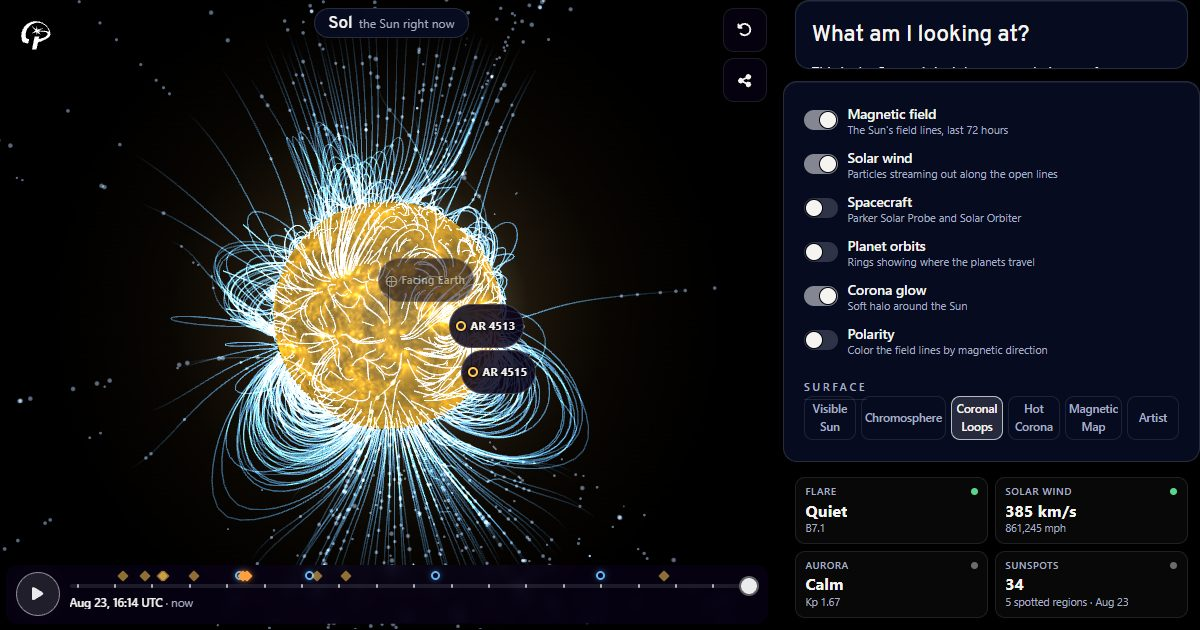
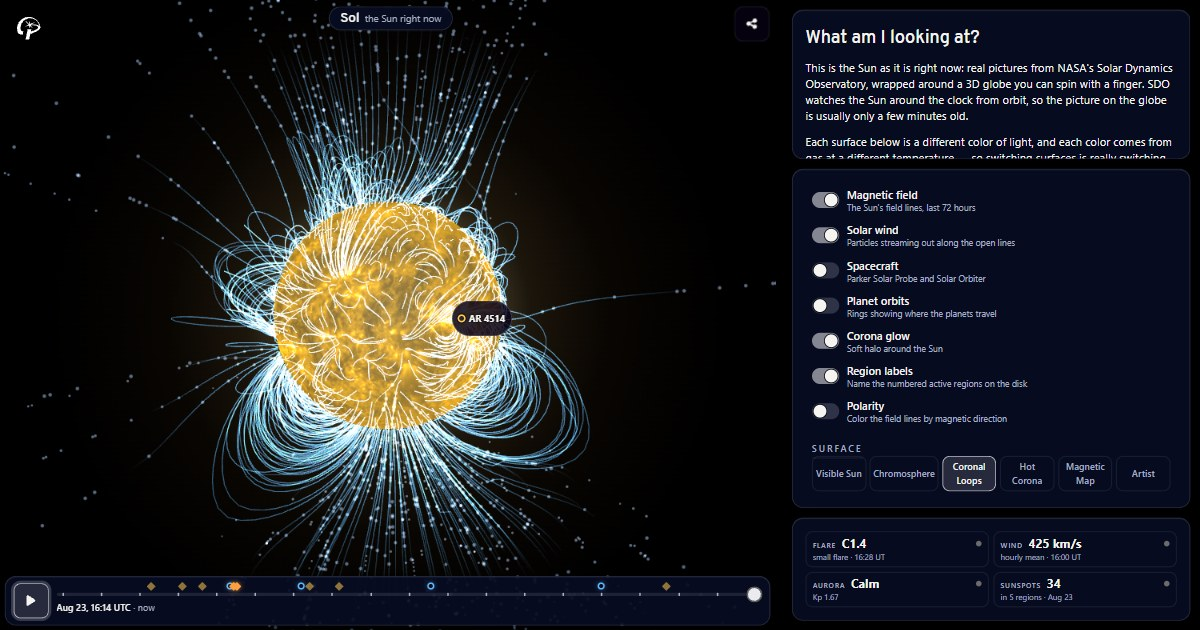
Layer panel, stat chips, rail widths and a share button that never worked
Five things reported from a phone, all measured in a browser before and after.

The layer popover hung off the bottom of the whole button stack and stopped
1rem from the bottom of the stage -- straight through the scrubber, which sits
at z-index 5 and therefore painted over its last rows and stole their taps. It
now hangs off the bottom edge of its OWN button (--sv-layers-index), covering
the information button, states BOTH side insets so the gutters are equal by
construction rather than left over from shrink-to-fit, and caps its height
against --sv-bottom-h, the measured height of the scrubber block. A drag on a
row scrolled it; a drag on the padding BETWEEN two rows orbited the Sun, so it
now carries gestures.ts' own data-camera-passthrough escape hatch.

The stat chips were 3 and 1 at any width where three 150px columns happened to
fit -- auto-fit cannot express "2 or 4, never 3", because it does not know the
count is four. Stated instead: 2 columns, 4 from 640px. The label moved onto the
value's baseline, which makes each chip two lines and 44px instead of ~58 and
gives ~27px back to the Sun; the text shortened to survive two columns at 280px.

The flare chip leads with the CLASS now (C1.4, M2.3, X5.0). "Small flare" could
not answer the only question a flare raises -- C1.0 and C9.9 are a factor of ten
apart and read identically -- and the SCRUBBED path dropped the class entirely.

The rail's three panels were three different widths (measured, 1920px window:
[…]

Changed region(s): [[0.0, 0.0, 1.0, 1.0], [0.0, 0.0302, 0.0617, 0.0905]]

diff --git a/src/sol.vue b/src/sol.vue
@@ -529,11 +529,25 @@ export default defineComponent({
   // be applied left/right here with a padding-bottom only on the stats item, so
   // the top panel sat flush against the top edge while the bottom one was inset
   // -- and the column read as slightly lopsided for no reason anyone could name.
+  //
+  // MARGIN, not padding, and that is the whole fix for "the layers panel sticks
+  // out farther left and right than the info panel and the stats": two of these
+  // three grid items ARE the bordered panel, because the rail's classes land on
+  // the component ROOTS -- `.sol-area-layers` is `.layer-panel` itself and
+  // `.sol-area-stats` is `.sun-stats` itself, while `.sol-area-info` is
+  // `.im-inline`, a WRAPPER around `.im-panel`. So a padding gutter landed
+  // inside two of the three borders: those panels' boxes spanned the entire
+  // column while the info panel's was inset by it. Measured 2026-08-24 in a
+  // 1920px window: layers 1251..1920 (hard against the window edge) against
+  // info's panel at 1263..1908. Margin sits OUTSIDE the border, so it insets
+  // the panel whether the item is the panel or a wrapper around one -- and as a
+  // bonus `.layer-panel` gets its own symmetric `--sol-panel-pad` back, which
+  // the padding gutter had been overriding to a lopsided `16px 12px`.
   .sol-area-info,
   .sol-area-layers,
   .sol-area-stats {
-    padding-right: var(--sol-rail-gutter);
-    padding-left: var(--sol-rail-gutter);
+    margin-right: var(--sol-rail-gutter);
+    margin-left: var(--sol-rail-gutter);
   }
 
   // Every rail child is a PANEL of the same width. `.layer-panel` carries
@@ -548,6 +562,12 @@ export default defineComponent({
 
   .sol-area-info {
     grid-area: info;
+    // PADDING here, unlike the side gutters above, and deliberately: this item
+    // is `.im-inline`, which carries `height: 100%` (InfoModal.vue) so that the
+    // panel can fill the 1fr row and scroll inside it. A grid item at 100%
+    // height plus a top MARGIN overflows its area by exactly the margin, and
+    // would push into the layers row below. Padding is inside that 100% and,
+    // on a wrapper with no border or ground of its own, is visually identical.
     padding-top: var(--sol-rail-gutter);
     // Load-bearing: without it the info panel's content sets a floor on this
     // grid item's height and the 1fr row stops constraining anything.
@@ -559,27 +579,44 @@ export default defineComponent({
     align-self: start;
   }
 
+  // SunStats is a bare strip of chips on a phone, where it sits at the bottom
+  // of the screen and needs no frame. In the rail it is the third member of a
+  // column of cards, and being the only one without a border, a ground and a
+  // radius was the single biggest thing making the right-hand side look
+  // unfinished. Same tokens as `.layer-panel` and `.im-panel`, so all three are
+  // one design and cannot drift apart.
+  //
+  // These five declarations sat in a nested `:deep(.sun-stats)` block and did
+  // NOTHING for it -- `:deep()` compiles to a DESCENDANT selector, and
+  // `.sun-stats` is not a descendant of `.sol-area-stats`, it IS that element
+  // (the rail class is bound onto the child component's root). So the rule
+  // matched no element in the document and the framing never shipped; measured
+  // 2026-08-24 the panel's computed border was `0px none` and its background
+  // `rgba(0, 0, 0, 0)`. They belong directly on the item: Vue's scoped CSS
+  // stamps a child component's ROOT node with this component's scope id, which
+  // is exactly why `.sol-area-stats` can style it and `:deep()` was never
+  // needed.
+  //
+  // The `padding` also replaces the phone gutter `.sun-stats` sets for itself
+  // (SunStats.vue) rather than adding to it -- one class deeper than that rule,
+  // so it wins -- because the rail's own inset is a margin now and two insets
+  // would make this panel's content narrower than its neighbours'.
   .sol-area-stats {
     grid-area: stats;
     align-self: end;
-    padding-bottom: var(--sol-rail-gutter);
-
-    // SunStats is a bare strip of chips on a phone, where it sits at the
-    // bottom of the screen and needs no frame. In the rail it is the third
-    // member of a column of cards, and being the only one without a border,
-    // a ground and a radius was the single biggest thing making the right-hand
-    // side look unfinished. Same tokens as `.layer-panel` and `.im-panel`, so
-    // all three are one design and cannot drift apart.
-    //
-    // Its own phone gutter is dropped: the rail already applies the inset, and
-    // the two would otherwise add up to a wider one than its neighbours have.
-    :deep(.sun-stats) {
-      padding: var(--sol-panel-pad);
-      border: var(--sol-panel-border);
-      border-radius: var(--sol-panel-radius);
-      background: var(--sol-surface);
-      box-shadow: var(--sol-panel-shadow);
-    }
+    margin-bottom: var(--sol-rail-gutter);
+    // `.sun-stats` sets `width: 100%` for the phone, where it is a strip at the
+    // bottom of the screen. On a grid item that 100% resolves against the whole
+    // grid AREA and then the side margins push it outward, so the panel ran 12px
+    // past the window's right edge (measured 1263..1932 in a 1920px window).
+    // `auto` lets the default `stretch` fill the area MINUS the margins, which
+    // is what makes this panel exactly as wide as the two above it.
+    width: auto;
+    padding: var(--sol-panel-pad);
+    border: var(--sol-panel-border);
+    border-radius: var(--sol-panel-radius);
+    background: var(--sol-surface);
+    box-shadow: var(--sol-panel-shadow);
   }
 }
 </style>

diff --git a/src/components/SolarView3D.vue b/src/components/SolarView3D.vue
@@ -1804,23 +1804,39 @@ export default defineComponent({
     },
 
     /**
-     * Copy via the old selection-and-execCommand route. True if it took.
+     * Copy via the old focus-select-execCommand route. True if it took.
      *
-     * Every part of this is load-bearing, so it reads as cargo cult and isn't:
-     * `execCommand("copy")` copies the current SELECTION, and an element that
-     * is `display: none`, `visibility: hidden` or detached cannot hold one — so
-     * the textarea has to be in the document and rendered, and is instead moved
-     * off-screen and made transparent. iOS Safari additionally refuses to
-     * select inside a `readonly` field and ignores `select()` on a textarea,
-     * which is why the selection is built with a Range over a
-     * `contenteditable` node and then narrowed with `setSelectionRange`.
-     * `position: fixed` + `top: 0` keeps the page from scrolling to it, and a
-     * `font-size` of 16px keeps iOS from zooming the viewport at focus.
+     * Every line is load-bearing, so it reads as cargo cult and isn't:
+     *
+     * - The textarea has to be IN the document and rendered. `execCommand`
+     *   copies a live selection, and a `display: none` / `visibility: hidden` /
+     *   detached element cannot hold one — hence off-screen and transparent
+     *   rather than hidden.
+     * - The selection has to be the TEXTAREA'S OWN (`focus` +
+     *   `setSelectionRange`), never a document Range over the element. A
+     *   textarea's value is not DOM text: assigning `.value` creates no child
+     *   node, so `Range.selectNodeContents(area)` selects NOTHING. Measured
+     *   2026-08-23 over http:// on this dev server, that version returned
+     *   `true` from `execCommand` — the button went to its check mark — and
+     *   left the OS clipboard holding its previous contents. A copy path that
+     *   reports success and copies nothing is worse than the silent failure it
+     *   replaced, which is why this is verified against `Get-Clipboard` and not
+     *   against the return value.
+     * - `contentEditable` + not `readonly` is the iOS Safari workaround: it
+     *   refuses to select inside a readonly field, and ignores `select()` on a
+     *   textarea, so `setSelectionRange` is what has to do the work. (Verified
+     *   on desktop Chrome; the iOS half of this is by construction.)
+     * - `position: fixed` + `top: 0` keeps the page from scrolling to it, and
+     *   `font-size: 16px` keeps iOS from zooming the viewport on focus.
+     * - Focus is handed back afterwards: it was on the share button, and a
+     *   keyboard guest should not lose their place to a scratch element.
      */
     copyLegacy(text: string): boolean {
+      const previous = document.activeElement as HTMLElement | null;
       const area = document.createElement("textarea");
       area.value = text;
       area.contentEditable = "true";
+      area.readOnly = false;
       area.style.position = "fixed";
       area.style.top = "0";
       area.style.left = "0";
@@ -1833,18 +1849,14 @@ export default defineComponent({
       document.body.appendChild(area);
       let ok = false;
       try {
-        const range = document.createRange();
-        range.selectNodeContents(area);
-        const selection = window.getSelection();
-        selection?.removeAllRanges();
-        selection?.addRange(range);
+        area.focus();
         area.setSelectionRange(0, text.length);
         ok = document.execCommand("copy");
       } catch {
         ok = false;
       } finally {
-        window.getSelection()?.removeAllRanges();
         document.body.removeChild(area);
+        previous?.focus?.();
       }
       return ok;
     },
@@ -2191,7 +2203,7 @@ export default defineComponent({
   margin-inline: auto;
   z-index: 4; // above `.sv-buttons` (E7) -- it's the popover FROM that stack
 
-  // `.layer-panel` alone runs ~470px tall (8 rows * ~48px + the Surface
+  // `.layer-panel` alone runs ~420px tall (7 rows * ~48px + the Surface
   // `.lp-group` block's ~78px + 2rem of panel padding) with no cap of its
   // own, and on a landscape phone (e.g. 812x375 -- still `!wide`, since
   // 812 < 900) the stage is only 375px tall with `.solar-view-3d`'s

diff --git a/src/components/StatChip.vue b/src/components/StatChip.vue
@@ -181,6 +181,26 @@ export default defineComponent({
   text-overflow: ellipsis;
 }
 
+// The narrowest screens still in circulation -- a Galaxy Fold's ~280px cover
+// screen -- and the only place this layout runs out of room. Measured at 280px:
+// two columns give each chip 107px of content, and "425 km/s" at 0.95rem needs
+// 66px of the 58px it gets, i.e. it ellipsises to "425 km/…" and loses the
+// unit, which is the half that carries the meaning. Tightening the two head
+// gaps recovers 4.8px and the smaller value another 6.3px, which clears it with
+// room to spare -- and both are recovered from SPACING and from a size that is
+// still the largest thing in the chip, so nothing has to be dropped and the
+// grid stays 2x2 as it is at every other width. 300px, not 320: an iPhone SE
+// (320px) has the room and should keep the full-size number.
+@media (max-width: 300px) {
+  .sc-head {
+    gap: 0.3rem;
+  }
+
+  .sc-value {
+    font-size: 0.86rem;
+  }
+}
+
 .sc-detail {
   font-size: 0.62rem;
   line-height: 1.3;

diff --git a/HANDOFF.md b/HANDOFF.md
@@ -3,7 +3,7 @@
 **Living document.** Update it at the end of any session that changes project state. It exists
 so a fresh session (human or Claude) can pick the work up without re-deriving context.
 
-- **Last updated:** 2026-08-23 (third session that day)
+- **Last updated:** 2026-08-24 (fourth session — five phone/desktop layout fixes, §3zz)
 - **LIVE AT https://astrodavid10.github.io/sol-solar-viewer/** — the repo is PUBLIC, Pages is
   enabled on `gh-pages` / root, and the deployed data tree passes
   `validate --url … --strict` at 0 failed / 0 warnings.
@@ -23,7 +23,7 @@ so a fresh session (human or Claude) can pick the work up without re-deriving co
 
 ### Read these first, in this order
 
-1. `CLAUDE.md` — architecture + **30 numbered footguns**. Dense and authoritative. The
+1. `CLAUDE.md` — architecture + **45 numbered footguns**. Dense and authoritative. The
    footguns are hard-won; several document bugs that took hours to find. Do not "fix" them.
 2. This file — what is done, what is not, what is unverified.
 3. The original implementation plan — a local Claude Code planning document, not in this
@@ -131,7 +131,102 @@ own checks, not seen running · **PARTIAL** · **NOT STARTED**
 
 ---
 
-## 3z. What changed on 2026-08-23 (THIRD session — most recent)
+## 3zz. What changed on 2026-08-24 (FOURTH session — most recent)
+
+Five items reported from a phone on the LAN dev server, all app-side, no pipeline change.
+`yarn lint`, `yarn build` and `node scripts/check_label_layout.mjs` are clean. Everything below
+was **measured in a browser** at 280/300/320/360/390/430/480/540/600/639/640/720/899px and at
+1920px for the rail; three of the five were confirmed as bugs by measurement before being
+touched, and one fix was caught being wrong by measurement after being written.
+
+### The layer popover: opens under its own button, equal gutters, actually scrollable
+
+It used to hang off the bottom of the WHOLE button stack and stop 1rem from the bottom of the
+stage — straight through the scrubber, which sits at z-index 5 and therefore painted over the
+panel's last rows and stole their taps (the reported "obscured by the scrubbable timeline").
+
+- Now hangs off the bottom edge of the LAYERS button (`--sv-layers-index`, 1 normally / 0 in
+  kiosk), ~48px higher, deliberately covering the information button below it — which is why
+  layers is the middle button of the three.
+- `left: 0.5rem` **and** `right: 0.5rem` (was `right` + a `max-width`): an abspos box with one
+  inset shrink-to-fits, so the other gutter was whatever the content left. Equal by construction
+  now at every width; measured left 8px / right 8px at both 320 and 390. Above ~34rem it stops
+  growing and centres, so the gutters stay equal without a 900px-wide line of text.
+- `max-height` reserves `--sv-bottom-h`, the **measured** height of `.sv-bottom` (a
+  ResizeObserver, `measure()`), not a constant — the scrubber's height moves with its stale
+  banner, the field-lines note and the guest's font size. Measured at 320x568: the panel ends
+  8px above the scrubber and scrolls (scrollHeight 500 vs clientHeight 277); at 390x844 it fits
+  whole (474/474).
+- **`data-camera-passthrough="false"`** — CLAUDE.md footgun 45. Dragging a row scrolled;
+  dragging the padding *between* rows orbited the Sun. Proven with synthetic PointerEvents,
+  including the control experiment on open sky.
+
+### Stat chips: two lines, 2x2 always, and the flare says how strong it was
+
+- **Never 3+1.** `auto-fit` cannot express "2 or 4, never 3" (footgun 44). Stated instead: 2
+  columns, 4 from 640px. Verified 280→899px.
+- **Two lines, not three.** The label now shares a BASELINE with the value, so each chip is
+  44px instead of ~58 and the block is 95px instead of ~122 — ~27px back to the Sun. The
+  freshness dot moved to the far end of that row.
+- **The flare's class is the headline**: `C1.4`, `M2.3`, `X5.0`, with the plain word demoted to
+  the detail line ("small flare · 16:28 UT"). "Small flare" could not answer the only question a
+  flare raises — C1.0 and C9.9 are a factor of ten apart and both read as "Small flare". A and B
+  are not flares, so they keep `Quiet` with the class as evidence ("B8.3 background"). The
+  explainer now unpacks the number as well as the letter. **The scrubbed path used to drop the
+  class entirely**, which is the bug the report named.
+- Text shortened to fit two columns on the narrowest screens: `SOLAR WIND` → `WIND`,
+  `5 spotted regions` → `in 5 regions`, `Storm — aurora possible!` → `Storm!` (the aurora
+  BANNER above the chips already carries that sentence on exactly the same Kp >= 5 condition),
+  and tile timestamps are time-only — the scrubber one line up states the date, and every chip
+  value is drawn from within ~2h of the playhead. The daily sunspot count keeps its date.
+- 280px (a Fold cover screen) is the one place it still ran out of room: `425 km/s` needed 66px
+  of 58. A `max-width: 300px` query tightens the head gaps and the value size; nothing clips
+  from 280px up, and the old single-column fallback below 340px is gone.
+
+### The desktop rail's three panels were three different widths
+
+Measured in a 1920px window: `.im-panel` 1263..1908, `.layer-panel` **1251..1920** (hard against
+the window edge), `.sun-stats` the same. Two separate causes, both footgun 43: the rail's gutter
+was **padding** on items that ARE the bordered panel, and the stats card's framing lived in a
+`:deep(.sun-stats)` block that matched **nothing** — it had shipped with `border: 0px none` and a
+transparent ground while its own comment described the card it was supposed to be. All three are
+now 1263..1908 and framed identically.
+
+### The share button did nothing on a phone — confirmed, and fixed
+
+Not a hit-testing problem. On `http://192.168.1.121:8080` `isSecureContext` is false, so
+`navigator.share` and `navigator.clipboard` are **both undefined**, and the old code's
+`navigator.clipboard.writeText` threw a TypeError into a bare `catch`. Four routes now: share
+sheet → async clipboard → `execCommand` → a toast that says the link is in the address bar.
+While fixing it, the first `execCommand` version **returned `true` and copied nothing** (footgun
+42: a textarea's value is not DOM text, so `Range.selectNodeContents` selected nothing). Now
+verified end to end against the Windows clipboard: click the button on the insecure origin,
+`Get-Clipboard` returns `http://192.168.1.121:8080/`.
+
+### `preview.jpg` regenerated at last
+
+The og:image had been the pre-redesign shot for three sessions, because it needs a screenshot of
+the running app. Recipe, so the next one takes two minutes: a **1500x788 iframe at the viewport
+origin with `transform: scale(0.8)`**, captured with the extension's `zoom` over the resulting
+1200x630 footprint (that action returns the region at native CSS resolution — see the browser
+recipe in §4). Rendering large and scaling down is what stops the rail's `1fr` info row being
+squeezed to a sliver: at a literal 1200x630 viewport it gets ~40px and the panel's own HEADING
+is cut through the middle of its glyphs, which reads as a broken app rather than as a panel with
+more to scroll. Cropped 631→630 rather than resampled, JPEG q88 progressive, 147 KB.
+
+### ⚠ Not verified in a browser (this session)
+
+- **Real-touch scrolling** of the layer popover. Synthetic PointerEvents prove the camera no
+  longer steals the drag, but they do not drive native scroll — `touch-action: auto`,
+  `overscroll-behavior: contain` and a programmatic `scrollTop` all check out, so this is by
+  construction. Needs one flick on the phone.
+- **iOS Safari's copy path.** The `contentEditable` + not-`readonly` + `setSelectionRange`
+  recipe is the documented iOS workaround and is verified on desktop Chrome only.
+- The **share-failure toast** has never rendered: every route above it succeeded.
+
+---
+
+## 3z. What changed on 2026-08-23 (THIRD session)
 
 A six-workstream plan was approved covering everything the user named: the off-brand palette,
 overlays that clip each other, the credit lockup, unreliable pinch zoom plus twist-to-rotate,
@@ -595,13 +690,13 @@ touch work has been seen running.** Specifically unverified:
 - GPU memory under a real scrub on a real phone.
 
 `preview.jpg` was NOT regenerated — it needs a screenshot of the running app, so
-it is still the pre-redesign image.
+it is still the pre-redesign image. **(Done in the fourth session, §3zz.)**
 
 ### Still not done from the approved plan
 
 **Browser and phone verification of everything this session touched** (see the
-warning above — this is now the single biggest gap) · `preview.jpg` ·
-deploying the GONG relay (`wrangler deploy` + two repo secrets; the code is
+warning above — this is now the single biggest gap) · ~~`preview.jpg`~~ (done in
+the fourth session) · deploying the GONG relay (`wrangler deploy` + two repo secrets; the code is
 ready) · our own planet orbits (§8.4f) · a texture cross-fade, if the 4 h snap
 reads badly · M-W9's CME eruption layer · Lighthouse mobile · kiosk soak.
 

diff --git a/CLAUDE.md b/CLAUDE.md
@@ -432,6 +432,48 @@ node scripts/check_label_layout.mjs             # label de-collision invariants
     between a diagnosis and a re-run. (See also footgun 35: a killed run leaves `.staging`
     behind, and the NEXT run's `Staging.reset()` will delete it, so there is exactly one chance
     to look.)
+42. **Sharing over `http://` needs BOTH a fallback and a working selection — and
+    `execCommand("copy")` will lie to you.** On the LAN dev origin and on any locally served
+    kiosk (`http://192.168.1.121:8080`), `isSecureContext` is false, so `navigator.share` and
+    `navigator.clipboard` are **both `undefined`** — the old share button reached through the
+    latter, threw `TypeError: Cannot read properties of undefined (reading 'writeText')` into a
+    bare `catch`, and did nothing at all, silently, on every phone testing over LAN. The
+    surviving route is `document.execCommand("copy")`, which predates the secure-context rules.
+    Its trap: it copies a live SELECTION, and a `<textarea>`'s value is **not DOM text** —
+    assigning `.value` creates no child node, so `Range.selectNodeContents(area)` selects
+    NOTHING while `execCommand` still returns **`true`**. Measured 2026-08-24: the button showed
+    its success check and the OS clipboard still held its previous contents. Use the textarea's
+    own selection (`focus()` + `setSelectionRange`), never a document Range, and verify a copy
+    path against `Get-Clipboard` rather than against the return value. It also needs transient
+    user activation, so a `javascript_tool` probe returns false even when the code is correct —
+    test it from a real click.
+43. **Vue scoped `:deep(.x)` compiles to a DESCENDANT selector, so it silently matches nothing
+    when `.x` is the SAME element.** The desktop rail binds its classes onto child component
+    ROOTS (`.sol-area-stats` IS `.sun-stats`, `.sol-area-layers` IS `.layer-panel`; only
+    `.sol-area-info` wraps its panel). A `.sol-area-stats { :deep(.sun-stats) { border… } }`
+    block therefore styled no element in the document, and the stats card shipped for a whole
+    session with a computed `border: 0px none` and a transparent ground while its comment
+    described the framing it was supposed to have. Scoped CSS stamps a child's root with the
+    parent's scope id, so put the declarations directly on the item and drop the `:deep()`.
+    Same family of bug: the rail's gutter must be a **margin**, not padding — on the two items
+    that ARE the panel, padding lands inside the border, so those panels spanned the whole
+    column (hard against the window edge, 1251..1920 in a 1920px window) while the wrapped one
+    was inset to 1263..1908. And `.sun-stats`' own `width: 100%` then needs `width: auto` in the
+    rail, or that 100% resolves against the grid AREA and the margins push it back out.
+44. **`grid-template-columns: repeat(auto-fit, minmax(150px, 1fr))` cannot express "2 or 4,
+    never 3".** auto-fit does not know the item count, so between ~490px and ~640px of stats
+    width it fitted THREE columns and the fourth chip orphaned onto its own row. Four items want
+    the count stated: 2 columns, then 4 at the width where all four actually fit (`min-width:
+    640px` = 4*150 + gaps + the side padding). Verified across 280-899px: 2 up to 639, 4 from
+    640, never 3, never 1.
+45. **An overflow-scrolling overlay on the stage needs `data-camera-passthrough="false"`.**
+    `gestures.ts`' `isControl` exempts `button, a, input, select, textarea, [role=button]` and
+    that attribute; anything else a single finger lands on is claimed for the camera. So the
+    layer popover's ROWS (buttons) scrolled while its padding, its "Surface" heading and the
+    gaps between rows orbited the Sun instead — a panel that scrolls or not depending on which
+    3px of it you touch. The attribute is the intended escape hatch and the popover is its first
+    user. Verified by synthetic PointerEvents: the drag inside the panel leaves
+    `solDebug.camera` untouched, the identical drag on open sky moves lat by 9 degrees.
 
 ## Data sources (verified live 2026-08)
 
